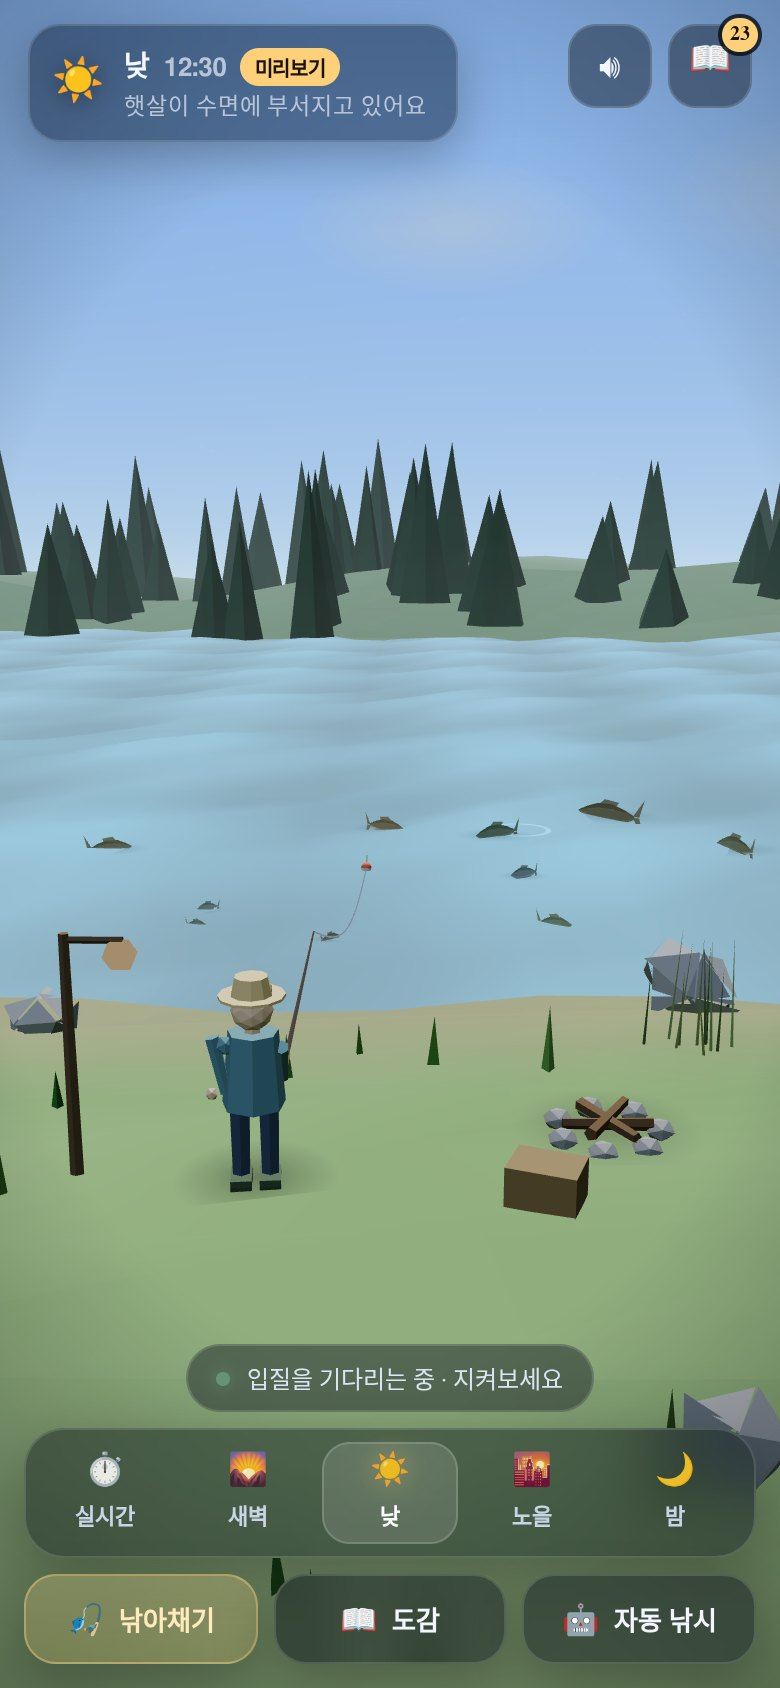
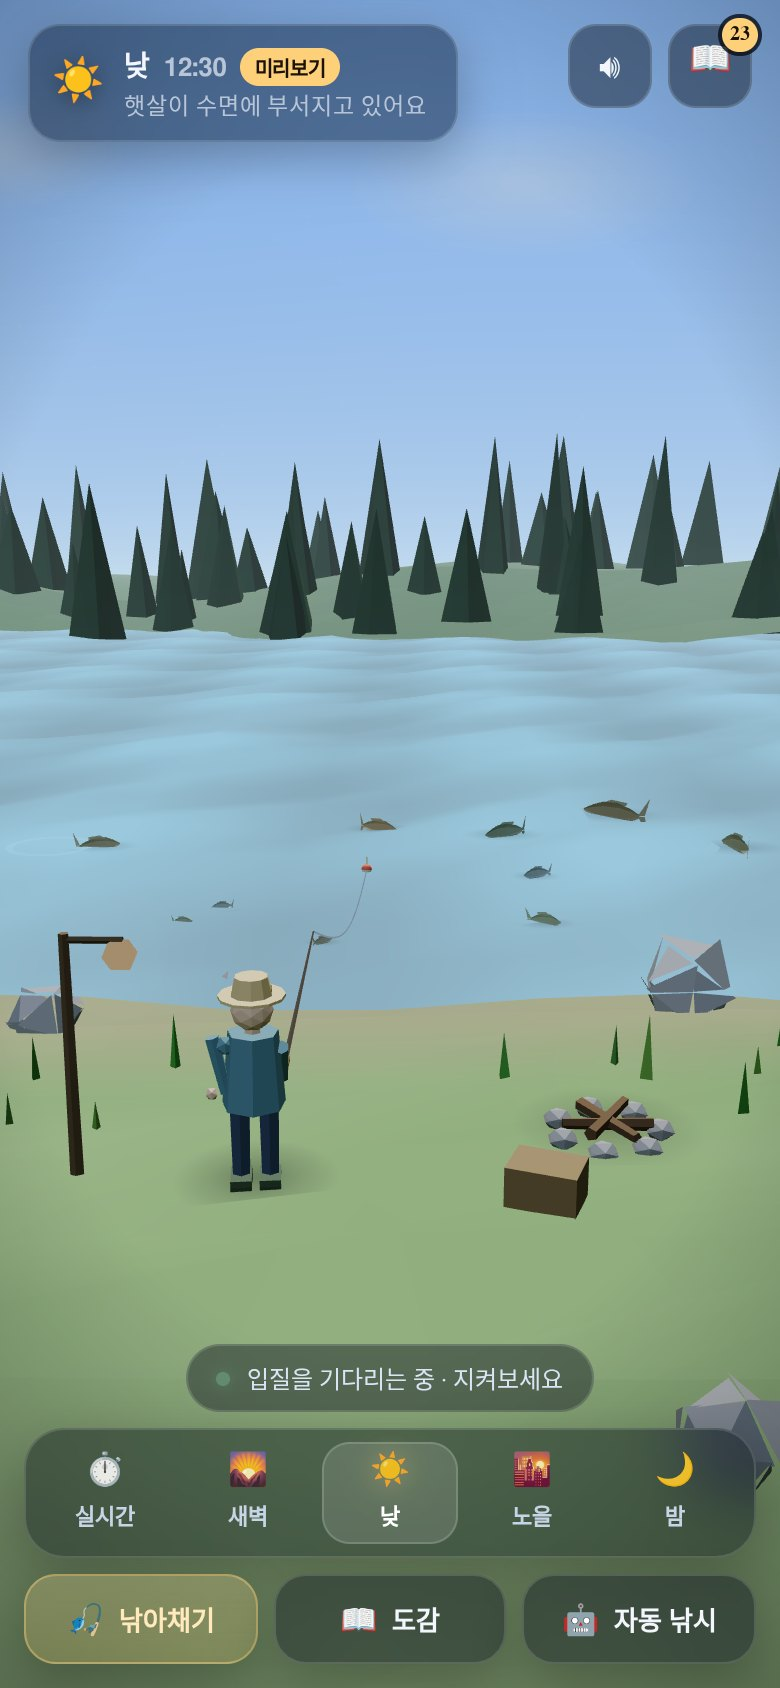
물고기 실루엣/밝기 미세 조정, 미리보기 갱신

diff --git a/index.html b/index.html
@@ -2693,7 +2693,8 @@
       var dayF = clamp(m.sunIntensity / 1100, 0, 1);
       var nightF = clamp(m.starOpacity, 0, 1);
       var moonF = clamp(m.moonOpacity, 0, 1);
-      var lit = 0.46 + 0.52 * dayF * (1 - nightF) + 0.16 * moonF;
+      var amb = clamp(m.ambientIntensity / 460, 0, 1);
+      var lit = 0.40 + 0.34 * amb + 0.34 * dayF * (1 - nightF) + 0.14 * moonF;
       fishSchool.mat.color.setRGB(lit, lit * 1.01, lit * 1.03);
       fishSchool.mat.emissive.setRGB(
         clamp(m.water[0] * 0.55 + 0.04, 0, 1) * (0.12 + nightF * 0.5),
@@ -3522,7 +3523,7 @@
     }
     // 등지느러미 (위로 솟은 얇은 판)
     var base = pos.length / 3;
-    pos.push(-0.18, 0.22, 0,  0.16, 0.18, 0,  0.04, 0.34, 0,  -0.22, 0.30, 0);
+    pos.push(-0.26, 0.20, 0,  0.20, 0.16, 0,  0.02, 0.30, 0,  -0.28, 0.27, 0);
     idx.push(base, base + 1, base + 2, base, base + 2, base + 3);
 
     var geo = new THREE.BufferGeometry();
